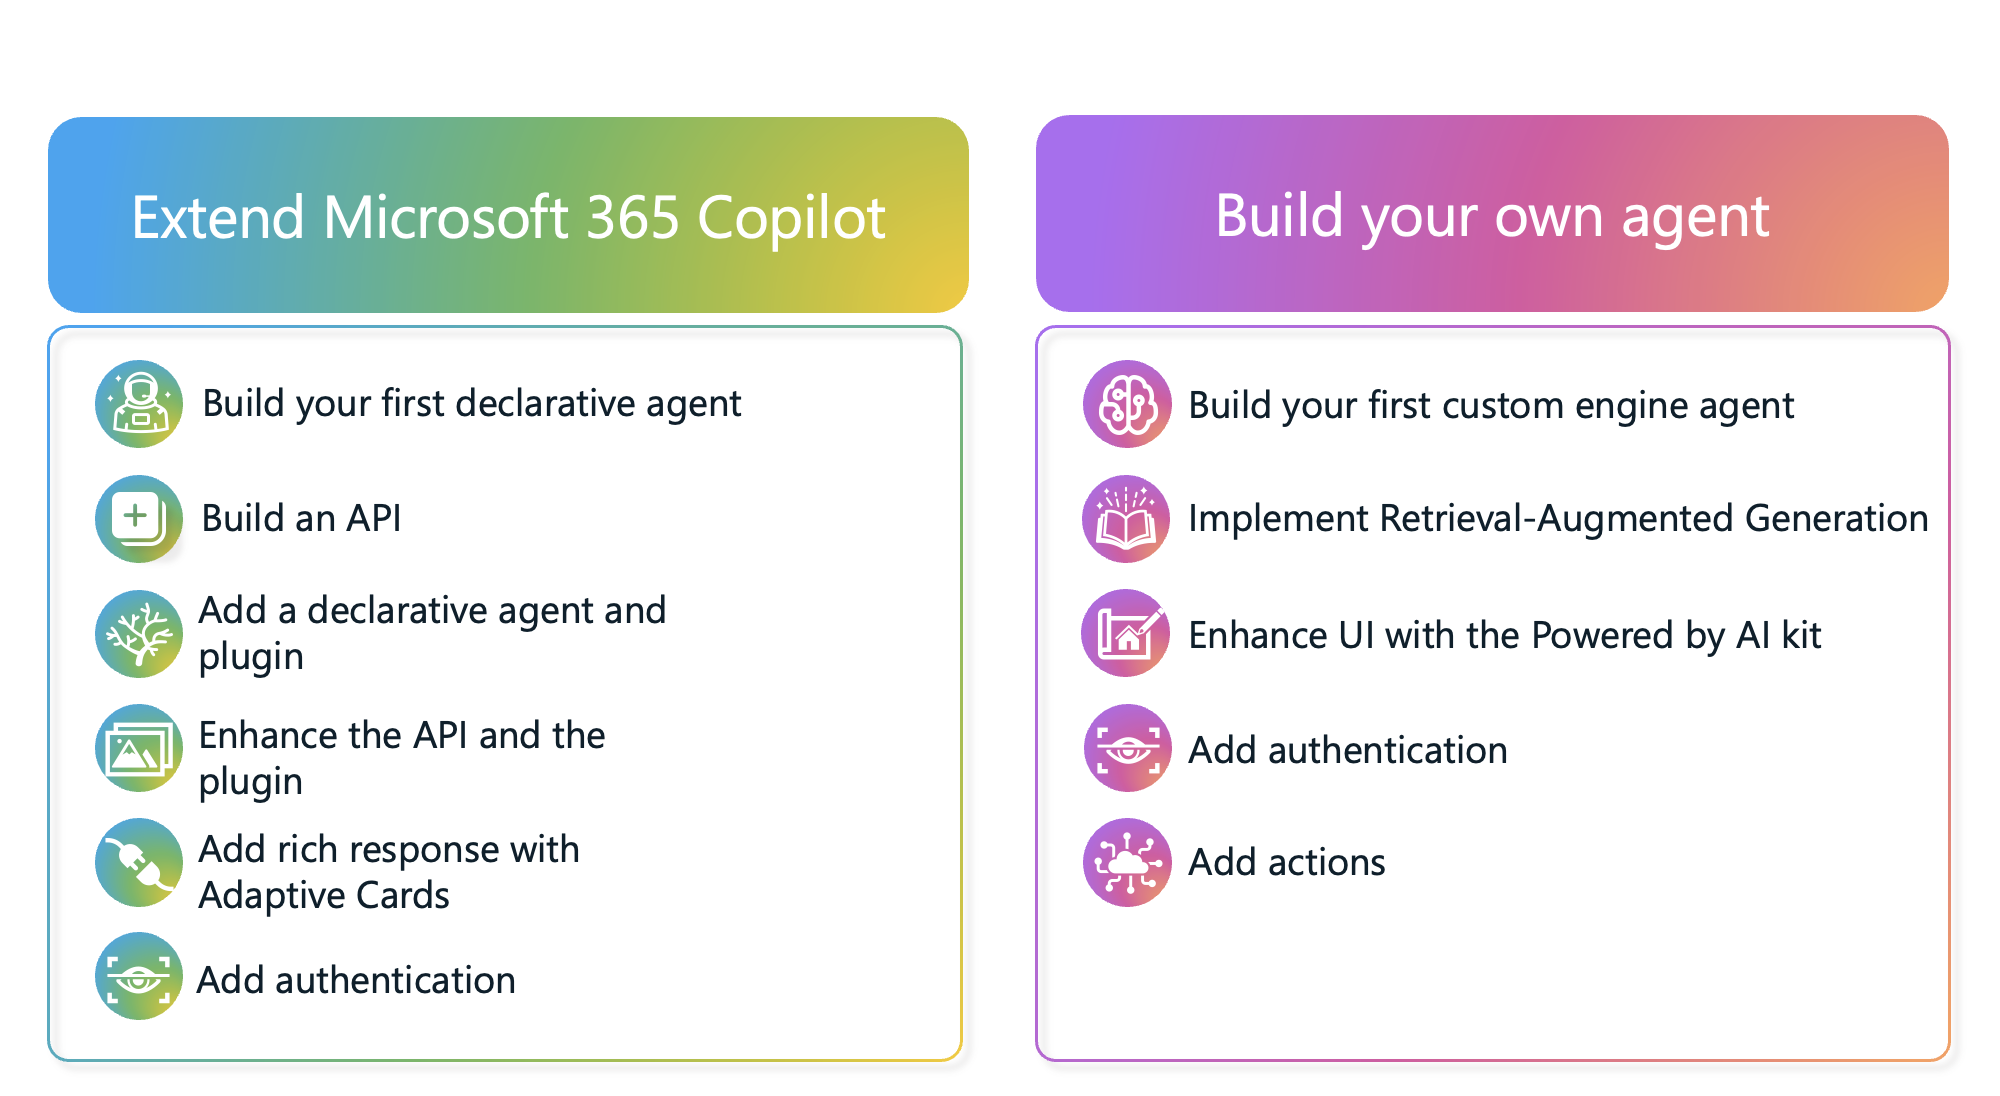
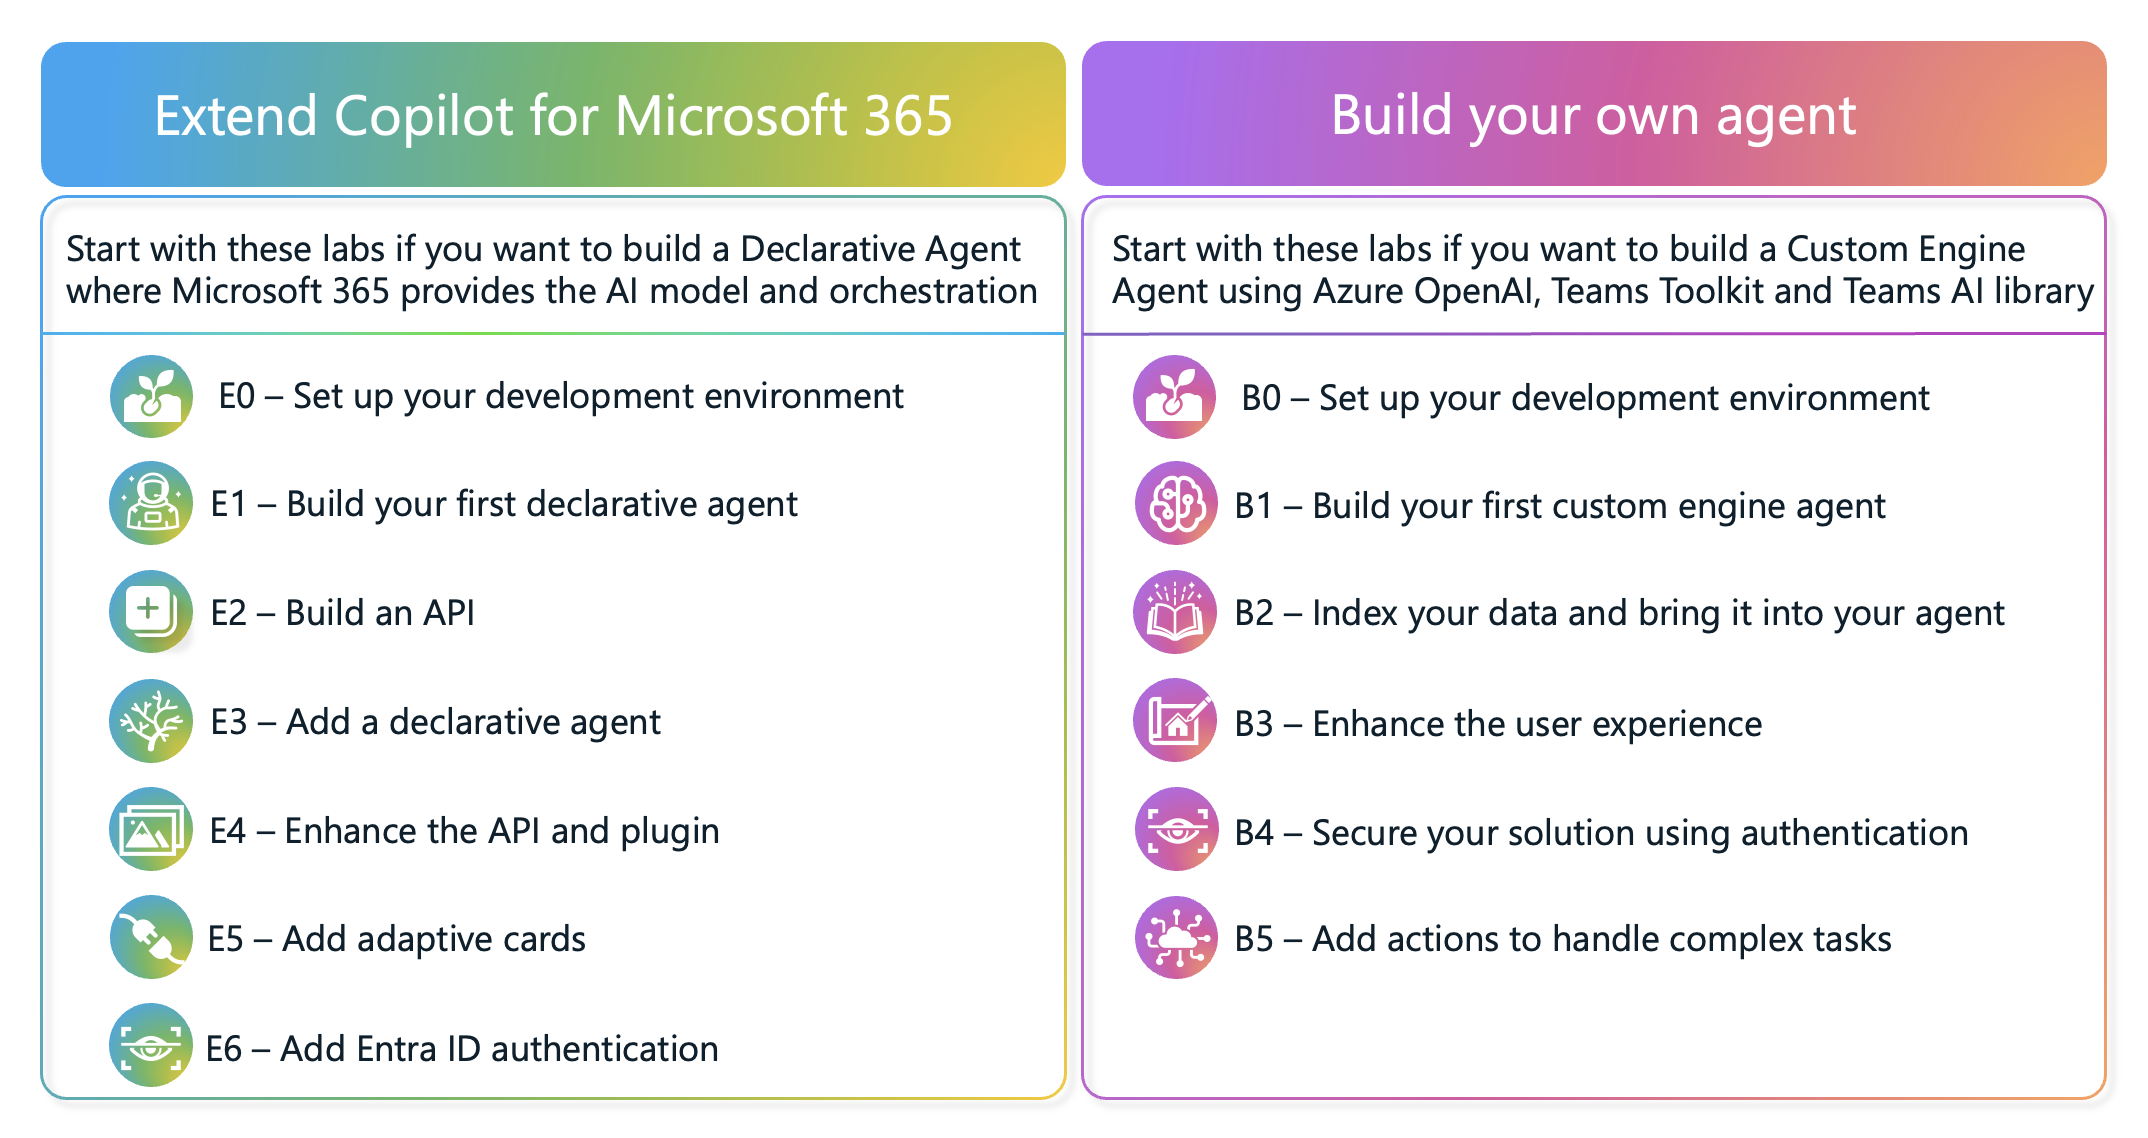
update pathways

Changed region(s): [[0.0, 0.031, 0.992, 0.9927], [0.527, 0.9617, 0.961, 0.9927], [0.961, 0.9307, 0.992, 0.9617]]

diff --git a/docs/assets/labStyles.css b/docs/assets/labStyles.css
@@ -83,13 +83,13 @@ button {
     .lab-path-container .e-path {
         width: 50%;
         float: left;
-        padding: 10px;
+        padding: 3px;
     }
 
     .lab-path-container .b-path {
         width: 50%;
         float: right;
-        padding: 10px;
+        padding: 3px;
     }
 }
 

diff --git a/docs/index.md b/docs/index.md
@@ -28,7 +28,7 @@ The labs are divided into two pathways, allowing you to choose based on what you
 <div class="lab-path e-path">
   <img src="./assets/images/path-icons/E-path-heading.png"></img>
   <div>
-    <p>Do these labs if you want to build a Declarative agent where Microsoft 365 provides the AI model and orchestration</p>
+    <p>Start with these labs if you want to build a Declarative Agent where Microsoft 365 provides the AI model and orchestration</p>
     <ul>
       <li><a href="./pages/extend-m365-copilot/00-prerequisites/">E0 - Set up your development environment</a></li>
       <li><a href="./pages/extend-m365-copilot/01-declarative-copilot/">E1 - Build your first declarative agent</a></li>
@@ -44,10 +44,10 @@ The labs are divided into two pathways, allowing you to choose based on what you
   <div class="lab-path b-path">
   <img src="./assets/images/path-icons/B-path-heading.png"></img>
   <div>
-    <p>Do these labs if you want to build a Custom engine agent using Azure OpenAI and Teams Toolkit</p>
+    <p>Start with these labs if you want to build a Custom Engine Agent using Azure OpenAI, Teams Toolkit and Teams AI library</p>
     <ul>
       <li><a href="./pages/custom-engine/00-prerequisites/">B0 - Set up your development environment</a></li>
-      <li><a href="./pages/custom-engine/01-custom-engine-agent/">B1 - Build a custom engine agent using Azure OpenAI</a></li>
+      <li><a href="./pages/custom-engine/01-custom-engine-agent/">B1 - Build your first custom engine agent</a></li>
       <li><a href="./pages/custom-engine/02-rag/">B2 - Index your data and bring it into your agent</a></li>
       <li><a href="./pages/custom-engine/03-powered-by-ai/">B3 - Enhance the user experience</a></li>
       <li><a href="./pages/custom-engine/04-authentication/">B4 - Secure your solution using authentication</a></li>
